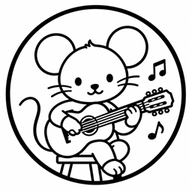
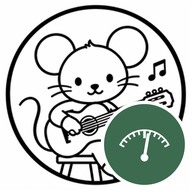
Afinador passa a se chamar Accordatore, com ícone próprio
Claude-Session: https://claude.ai/code/session_01KDeydNpP9h365oNe2tcr4h

Changed region(s): [[0.5, 0.5, 0.9688, 0.9688]]

diff --git a/afinador/index.html b/afinador/index.html
@@ -3,21 +3,21 @@
 <head>
 <meta charset="utf-8">
 <meta name="viewport" content="width=device-width, initial-scale=1, viewport-fit=cover">
-<title>Afinador cifrAmem: violão, viola, cavaquinho, ukulele, piano e mais</title>
-<meta name="description" content="Afinador gratuito e preciso para violão, viola caipira, cavaquinho, ukulele, bandolim, baixo, violino, violoncelo, piano e afinação cromática. Funciona no celular, no tablet e no computador, mesmo sem internet.">
-<meta property="og:title" content="Afinador cifrAmem">
+<title>Accordatore, o afinador do cifrAmem: violão, viola, cavaquinho, ukulele, piano e mais</title>
+<meta name="description" content="Accordatore: afinador gratuito e preciso para violão, viola caipira, cavaquinho, ukulele, bandolim, baixo, violino, violoncelo, piano e afinação cromática. Funciona no celular, no tablet e no computador, mesmo sem internet.">
+<meta property="og:title" content="Accordatore, o afinador do cifrAmem">
 <meta property="og:description" content="Afinador gratuito e preciso para violão, viola, cavaquinho, ukulele, piano e outros instrumentos.">
 <meta property="og:image" content="https://www.ciframem.com.br/img/cifra.png">
 <meta property="og:url" content="https://www.ciframem.com.br/afinador/">
 <meta property="og:locale" content="pt_BR">
 <link rel="canonical" href="https://www.ciframem.com.br/afinador/">
-<link rel="icon" type="image/png" href="../img/icone.png">
+<link rel="icon" type="image/png" href="icone-accordatore.png">
 <link rel="apple-touch-icon" href="icon-192.png">
 <link rel="manifest" href="manifest.webmanifest">
 <meta name="theme-color" content="#3d6b4f">
 <meta name="mobile-web-app-capable" content="yes">
 <meta name="apple-mobile-web-app-capable" content="yes">
-<meta name="apple-mobile-web-app-title" content="Afinador">
+<meta name="apple-mobile-web-app-title" content="Accordatore">
 <style>
 @font-face { font-family: 'Source Serif'; src: url('../fonts/source-serif-4-latin-wght-normal.woff2') format('woff2'); font-weight: 200 900; font-display: swap; }
 @font-face { font-family: 'Inter'; src: url('../fonts/inter-latin-wght-normal.woff2') format('woff2'); font-weight: 100 900; font-display: swap; }
@@ -177,7 +177,7 @@ footer a { color: var(--accent); }
 
 <header class="top">
   <div class="wrap">
-    <a class="brand" href="../"><img src="../img/icone.png" alt="" width="30" height="30">cifrAmem <span>· Afinador</span></a>
+    <a class="brand" href="../"><img src="icone-accordatore.png" alt="" width="30" height="30">Accordatore <span>· cifrAmem</span></a>
     <button class="iconbtn" id="setBtn" aria-expanded="false" aria-controls="settings" aria-label="Ajustes">
       <svg width="20" height="20" viewBox="0 0 24 24" fill="none" stroke="currentColor" stroke-width="2" stroke-linecap="round" aria-hidden="true"><path d="M4 6h10M18 6h2M4 12h4M12 12h8M4 18h12M20 18h0"/><circle cx="16" cy="6" r="2"/><circle cx="10" cy="12" r="2"/><circle cx="18" cy="18" r="2"/></svg>
     </button>
@@ -279,7 +279,7 @@ footer a { color: var(--accent); }
 
 <footer>
   <div class="wrap">
-    <span>Afinador do <a href="../">cifrAmem</a></span>
+    <span>Accordatore, o afinador do <a href="../">cifrAmem</a></span>
     <span>Gratuito, sem cadastro e sem anúncios</span>
   </div>
 </footer>

diff --git a/index.html b/index.html
@@ -173,7 +173,7 @@ footer .wrap { display: flex; flex-wrap: wrap; justify-content: space-between; g
 <header class="top">
   <div class="wrap">
     <a class="brand" href="#inicio"><img src="img/icone.png" alt="" width="36" height="36">cifrAmem</a>
-    <nav><a href="afinador/">Afinador</a> &nbsp;·&nbsp; <a href="#instalar">Como instalar</a></nav>
+    <nav><a href="afinador/">Accordatore</a> &nbsp;·&nbsp; <a href="#instalar">Como instalar</a></nav>
   </div>
 </header>
 
@@ -242,14 +242,14 @@ footer .wrap { display: flex; flex-wrap: wrap; justify-content: space-between; g
   <section class="install" id="afinador">
     <div class="wrap">
       <div>
-        <h2>Afinador gratuito</h2>
+        <h2>Accordatore, o afinador</h2>
         <p class="intro">Afine antes da missa direto no celular, no tablet ou no computador, mesmo sem internet.</p>
       </div>
       <div>
         <p class="intro" style="margin-top:0">Violão (6 e 7 cordas, 12 cordas e afinações abertas), viola caipira com as cordas oitavadas, cavaquinho, ukulele, bandolim, baixo, violino, viola de arco, violoncelo, piano e um modo cromático para voz e sopros. Mostra o desvio em décimos de cent, toca a nota de referência e permite ajustar o Lá de referência.</p>
         <div class="get"><a class="btn" href="afinador/">
           <svg width="20" height="20" viewBox="0 0 24 24" fill="none" stroke="currentColor" stroke-width="2" stroke-linecap="round" stroke-linejoin="round" aria-hidden="true"><path d="M9 18V5l12-2v13"/><circle cx="6" cy="18" r="3"/><circle cx="18" cy="16" r="3"/></svg>
-          Abrir o afinador
+          Abrir o Accordatore
         </a></div>
       </div>
     </div>

diff --git a/afinador/sw.js b/afinador/sw.js
@@ -1,7 +1,7 @@
-/* Afinador cifrAmem: funciona sem internet depois da primeira visita */
-var CACHE = 'afinador-v1';
+/* Accordatore (afinador do cifrAmem): funciona sem internet depois da primeira visita */
+var CACHE = 'afinador-v2';
 var FILES = ['./', 'index.html', 'pitch.js', 'manifest.webmanifest', 'icon-192.png', 'icon-512.png', 'icon-maskable-512.png',
-  '../img/icone.png', '../fonts/inter-latin-wght-normal.woff2', '../fonts/source-serif-4-latin-wght-normal.woff2'];
+  'icone-accordatore.png', '../fonts/inter-latin-wght-normal.woff2', '../fonts/source-serif-4-latin-wght-normal.woff2'];
 
 self.addEventListener('install', function (e) {
   e.waitUntil(caches.open(CACHE).then(function (c) { return c.addAll(FILES); }).then(function () { return self.skipWaiting(); }));
